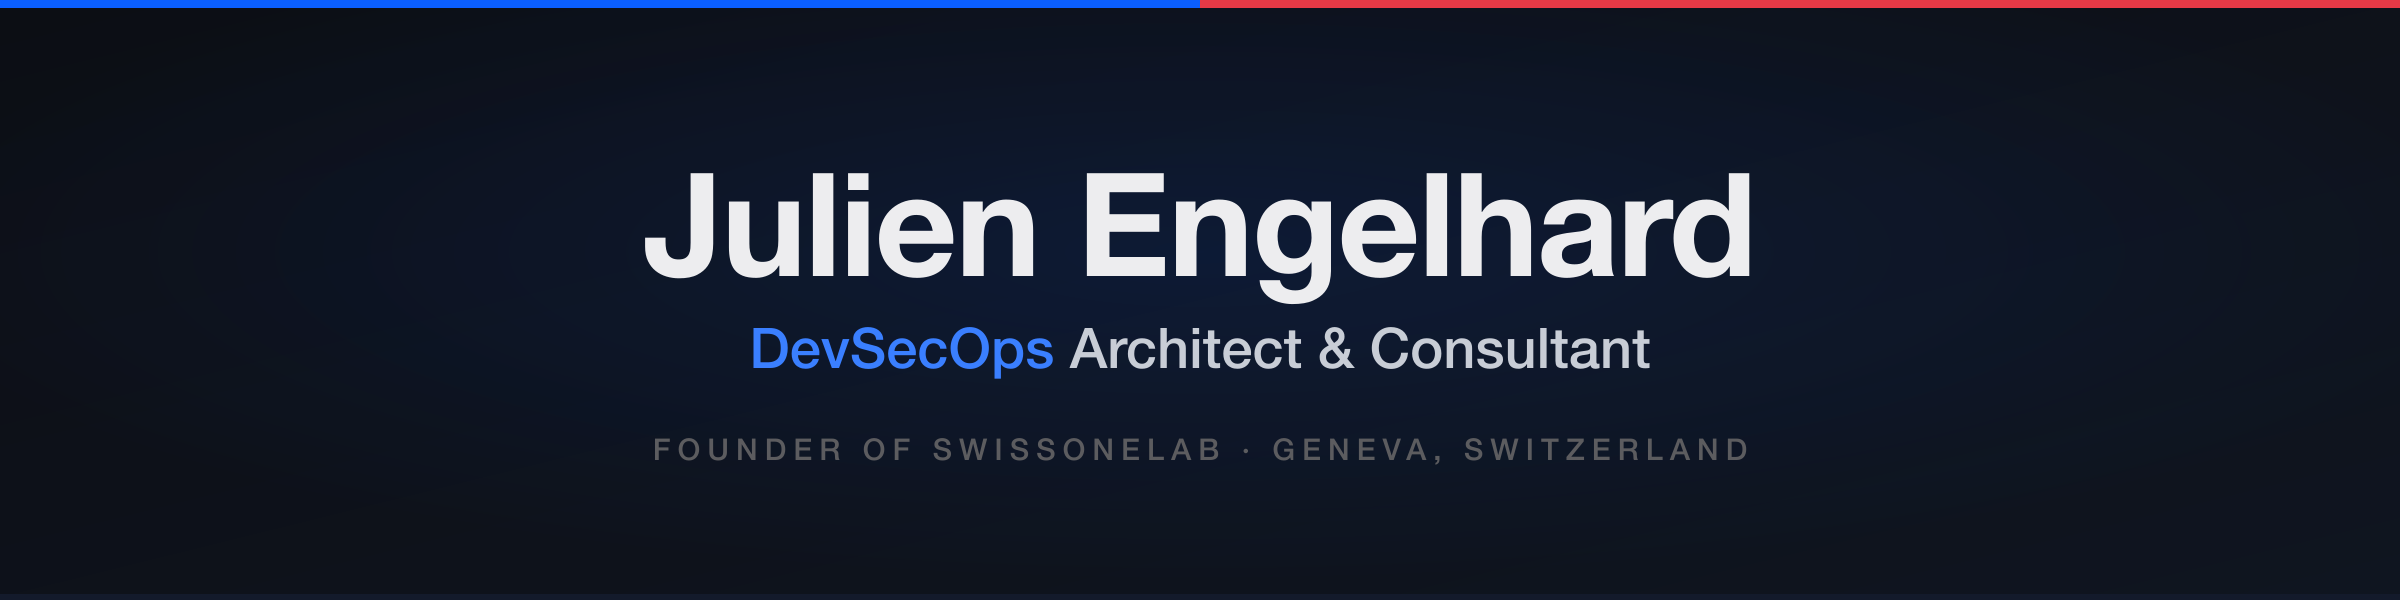
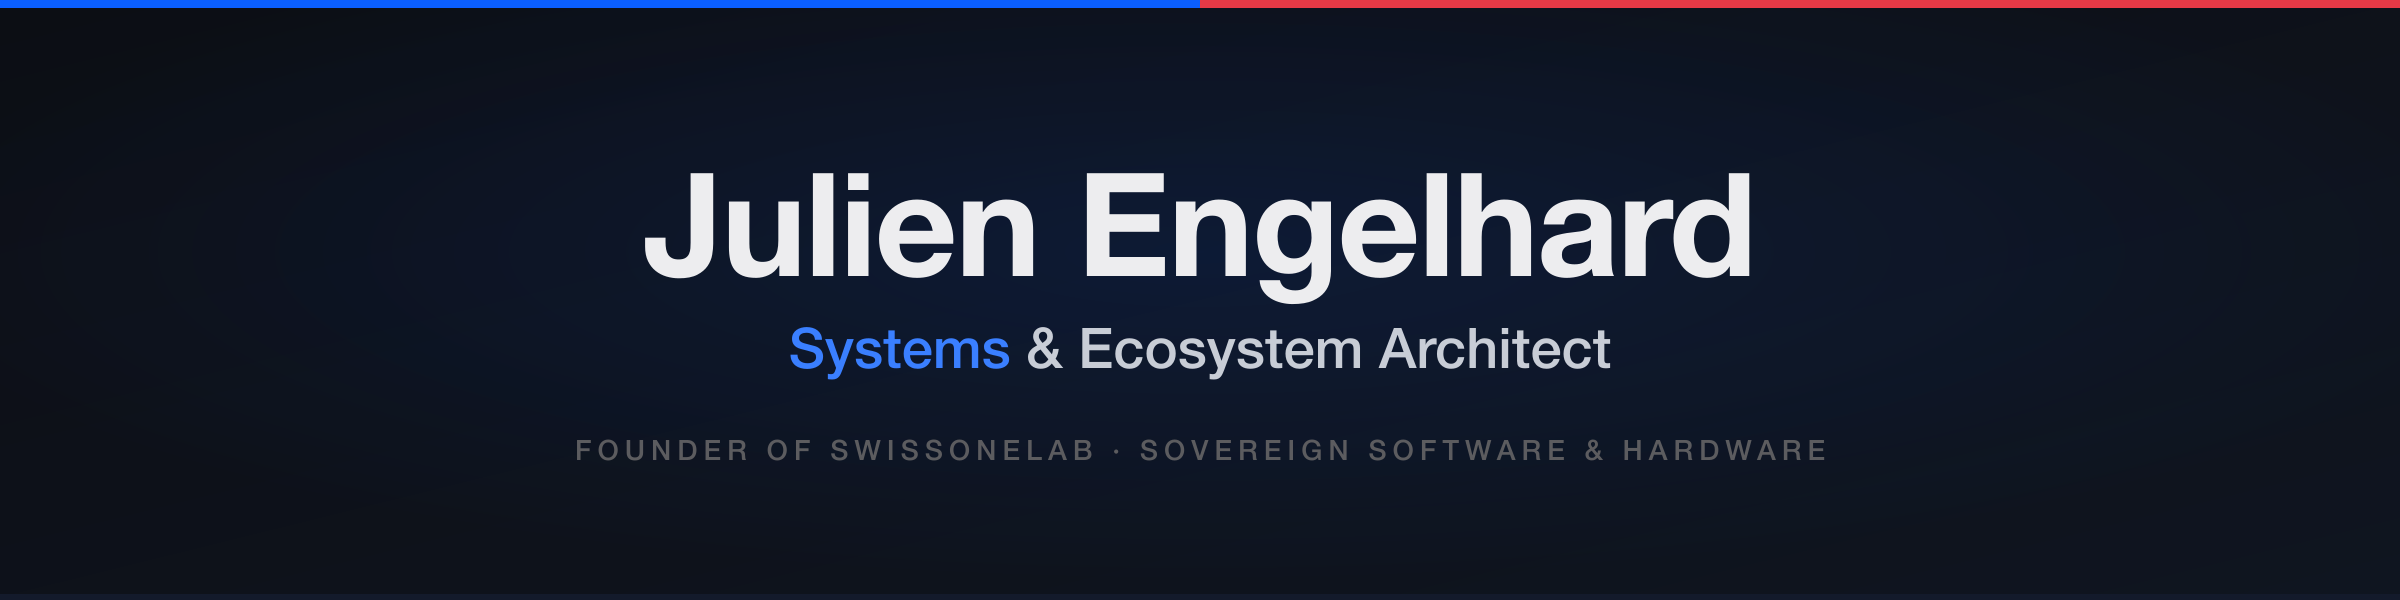
docs(profile): repositionnement — Systems & Ecosystem Architect (sovereign sw/hw)

Changed region(s): [[0.3125, 0.54, 0.6875, 0.63], [0.25, 0.72, 0.75, 0.78]]

diff --git a/README.md b/README.md
@@ -17,9 +17,10 @@
 
 ### About me
 
-I'm a **DevSecOps architect** focused on building reliable, secure, and well-crafted systems —
-with a strong bias for **sovereignty and local-first design**.
-By day I design platform environments; by night I explore cybersecurity, reverse engineering, and AI agents.
+I'm a **systems & ecosystem architect** (DevSecOps background) who designs coherent, sovereign
+ecosystems — **from hardware to software, from product to brand** — with a strong bias for
+**security-first, local-first design**.
+By day I architect platform environments; by night I explore cybersecurity, reverse engineering, and AI agents.
 
 - Founder of **[SwissOneLab](https://github.com/swissonelab)** — a modular, security-first engineering platform built for resilience and digital sovereignty
 - Passionate about **security-first architecture**, system hardening, and operational governance
